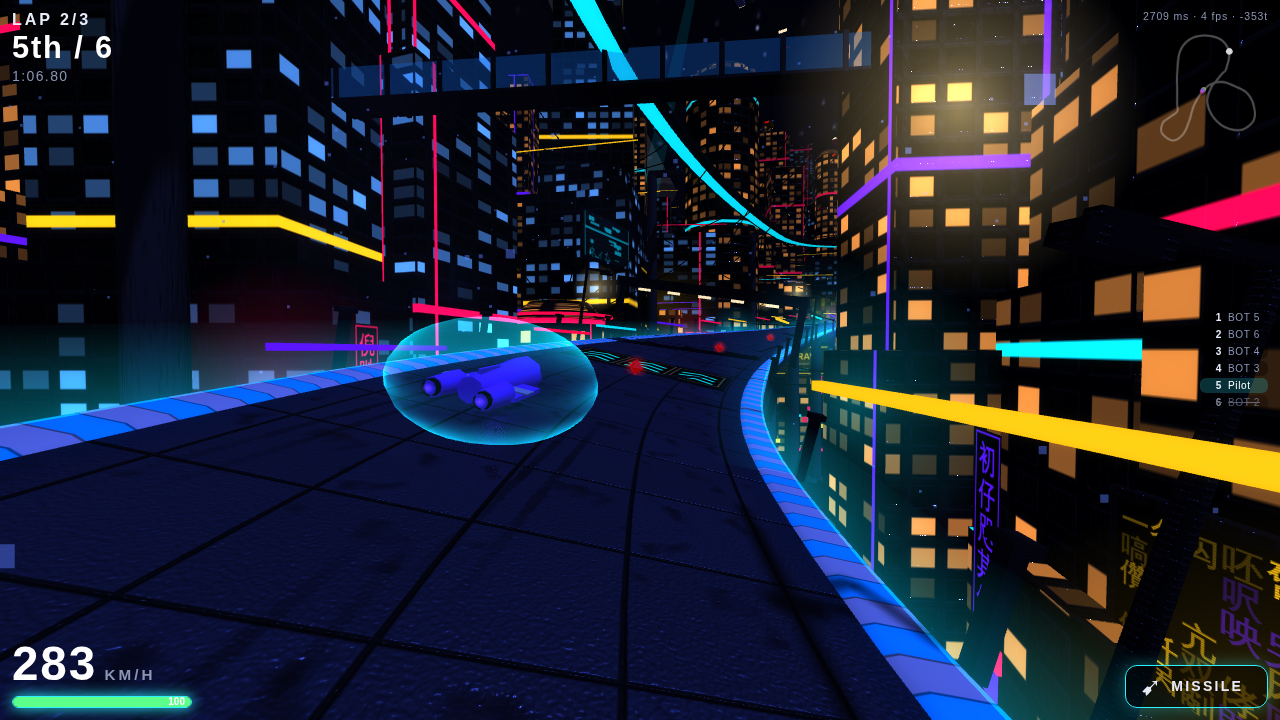
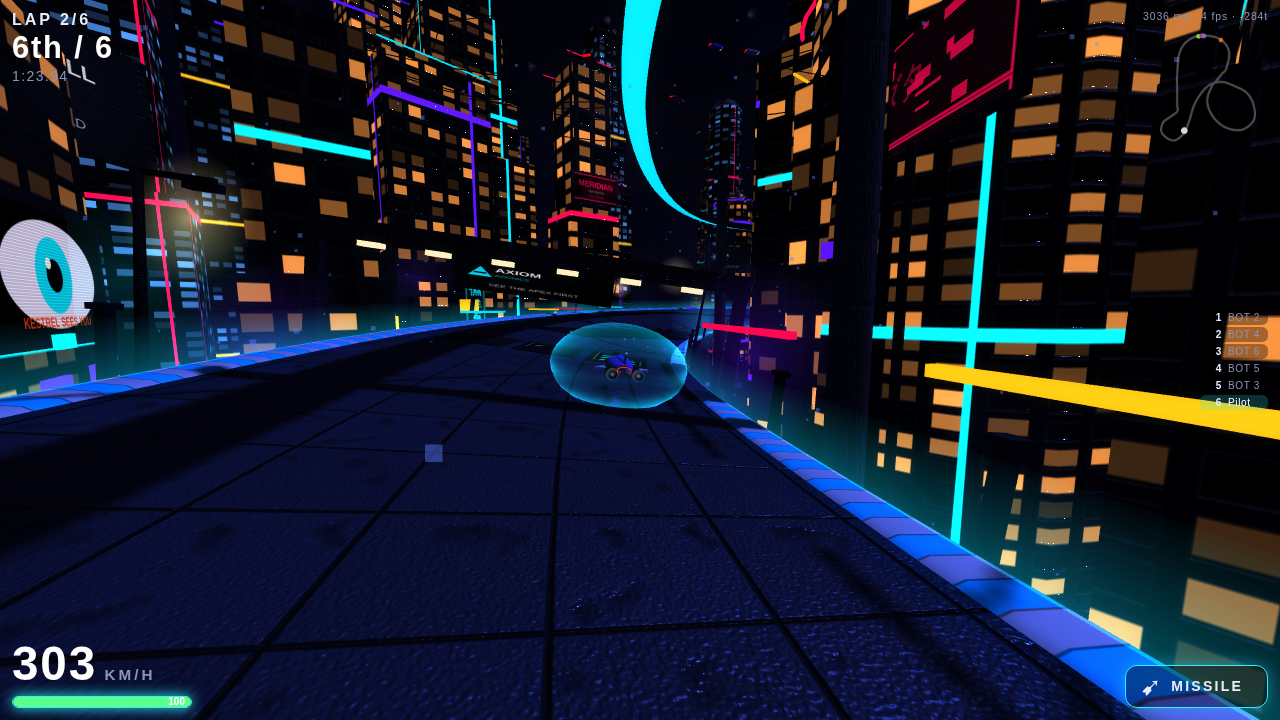
Sponsor adverts along every track, and shader exhaust plumes
The ten invented sponsors from the liveries now advertise trackside: a
banner under every light gantry on all three tracks, roadside billboards on
posts beyond the barriers in the canyon and on the coast, and sponsor spots
in rotation on the city's wall screens and holo boards. Each advert is a
generated canvas (mark, wordmark, tagline) shared through the texture cache.

Exhausts are shader plumes: an open tube behind each nozzle whose fragment
shader burns a white-hot core into the team colour, breaks the edge with
scrolling noise, thins toward the tip, thickens where the eye looks through
the middle and adds faint shock diamonds; throttle and boost set length and
heat. A small hot glow remains at the throat.

Claude-Session: https://claude.ai/code/session_011uQszjbA8SWdGi9ByjsS23

diff --git a/agrav/src/render/exhaust.js b/agrav/src/render/exhaust.js
@@ -1,0 +1,68 @@
+// ============================================================================
+// AGRAV — engine exhaust as a shader plume. An open tube behind each nozzle:
+// the fragment shader burns a white-hot core into the team colour, breaks the
+// edge up with scrolling noise, thins toward the tip and fades where the
+// surface turns away from the eye, so the plume reads as glowing gas rather
+// than a painted cone. Throttle and boost drive its length and heat.
+// ============================================================================
+
+import * as THREE from 'three';
+
+const VERT = `
+varying vec2 vUv; varying vec3 vN; varying vec3 vV;
+void main() {
+  vUv = uv;
+  vN = normalize(normalMatrix * normal);
+  vec4 mv = modelViewMatrix * vec4(position, 1.0);
+  vV = normalize(-mv.xyz);
+  gl_Position = projectionMatrix * mv;
+}`;
+const FRAG = `
+uniform float time; uniform vec3 colour; uniform float heat; uniform float seed;
+varying vec2 vUv; varying vec3 vN; varying vec3 vV;
+float hash(vec2 p) { return fract(sin(dot(p, vec2(127.1, 311.7))) * 43758.5453); }
+float vnoise(vec2 p) { vec2 i = floor(p), f = fract(p); f = f * f * (3.0 - 2.0 * f);
+  return mix(mix(hash(i), hash(i + vec2(1.0, 0.0)), f.x), mix(hash(i + vec2(0.0, 1.0)), hash(i + vec2(1.0, 1.0)), f.x), f.y); }
+float fbm(vec2 p) { float s = 0.0, a = 0.5; for (int i = 0; i < 4; i++) { s += a * vnoise(p); p = p * 2.03 + 17.1; a *= 0.5; } return s; }
+void main() {
+  float along = vUv.y;                                   // 0 at the nozzle, 1 at the tip
+  float around = vUv.x * 6.2832;
+  // turbulence scrolls away from the nozzle; wraps cleanly round the tube
+  vec2 q = vec2(cos(around) * 1.2 + seed, sin(around) * 1.2 + along * 3.0 - time * 7.0);
+  float n = fbm(q);
+  float body = smoothstep(1.0, 0.3, along + (n - 0.5) * 0.5);           // ragged, thinning tip
+  float core = smoothstep(0.85, 0.0, along) * (0.7 + 0.3 * n);
+  float shock = 0.5 + 0.5 * sin(along * 28.0 - time * 3.0);              // faint shock diamonds
+  // gas is densest where the eye looks through the middle of the tube, thin at the silhouette
+  float thick = abs(dot(normalize(vN), normalize(vV)));
+  float alpha = body * (0.3 + 0.7 * thick) * heat;
+  vec3 hot = vec3(1.0, 0.97, 0.9);
+  vec3 col = mix(colour * 1.8, hot, clamp(core * 1.1 + shock * 0.15 * (1.0 - along), 0.0, 1.0));
+  col *= 1.0 + heat * 0.8;
+  gl_FragColor = vec4(col * alpha * 3.0, alpha);
+}`;
+
+/** a plume for a nozzle of radius r, pointing +z from the origin; scale.z sets its length */
+export function makePlume(colour, r, seed = 0) {
+  // cylinder top (narrow) → +z tip, bottom (wide) → the nozzle at z = 0; uv.y then runs 0 → 1 nozzle → tip
+  const geo = new THREE.CylinderGeometry(r * 0.45, r * 1.25, 1, 18, 8, true);
+  geo.rotateX(Math.PI / 2);
+  geo.translate(0, 0, 0.5);
+  const mat = new THREE.ShaderMaterial({
+    vertexShader: VERT, fragmentShader: FRAG,
+    uniforms: { time: { value: 0 }, colour: { value: new THREE.Color(colour) }, heat: { value: 0.6 }, seed: { value: seed } },
+    transparent: true, depthWrite: false, blending: THREE.AdditiveBlending, side: THREE.DoubleSide
+  });
+  const m = new THREE.Mesh(geo, mat);
+  m.frustumCulled = false;
+  m.userData.noShadow = true;
+  return m;
+}
+
+/** drive a plume: throttle 0/1, boost, speed fraction, dead */
+export function animatePlume(plume, { throttle, boost, speedFrac, dead }, t) {
+  const len = dead ? 0.001 : throttle ? (boost ? 4.0 : 1.8 + speedFrac * 1.6) : 0.6;
+  plume.scale.set(1, 1, len);
+  plume.material.uniforms.time.value = t;
+  plume.material.uniforms.heat.value = dead ? 0 : throttle ? (boost ? 1.3 : 0.75 + speedFrac * 0.25) : 0.35;
+}

diff --git a/agrav/src/render/vehicle.js b/agrav/src/render/vehicle.js
@@ -15,6 +15,7 @@ import { loft, displaceAlongNormal } from './props.js';
 import { metalPlateSet, standard } from './surfaces.js';
 import { liverySet, ATLAS } from './livery.js';
 import { fbm3 } from './noise.js';
+import { makePlume, animatePlume } from './exhaust.js';
 
 const protos = new Map();
 const L = BASE.length, W = BASE.width;
@@ -146,15 +147,14 @@ export function buildCraft(vehicleId) {
   const parts = proto.userData.parts;
   const glow = glowSprite();
   const exhaust = [], flames = [];
-  const flameMat = new THREE.MeshBasicMaterial({ color: 0xffb060, transparent: true, opacity: 0.55, blending: THREE.AdditiveBlending, depthWrite: false, side: THREE.DoubleSide });
-  for (const n of parts.nozzles) {
-    const sp = new THREE.Sprite(new THREE.SpriteMaterial({ map: glow, color: def.colour, transparent: true, blending: THREE.AdditiveBlending, depthWrite: false }));
-    sp.position.set(n.x, n.y, n.z + 0.2); sp.scale.set(n.r * 5, n.r * 5, 1);
+  parts.nozzles.forEach((n, i) => {
+    // a small hot glow at the throat, and the shader plume behind it
+    const sp = new THREE.Sprite(new THREE.SpriteMaterial({ map: glow, color: 0xfff0d0, transparent: true, blending: THREE.AdditiveBlending, depthWrite: false }));
+    sp.position.set(n.x, n.y, n.z + 0.1); sp.scale.set(n.r * 3, n.r * 3, 1);
     group.add(sp); exhaust.push(sp);
-    const cone = new THREE.Mesh(new THREE.ConeGeometry(n.r * 0.85, 1.4, 12, 1, true), flameMat);
-    cone.geometry.rotateX(-Math.PI / 2); cone.geometry.translate(0, 0, 0.7);
-    cone.position.set(n.x, n.y, n.z); group.add(cone); flames.push(cone);
-  }
+    const plume = makePlume(def.colour, n.r, i * 3.7 + def.id.length);
+    plume.position.set(n.x, n.y, n.z + 0.05); group.add(plume); flames.push(plume);
+  });
   // airbrake panels hinge up from the wing / outrigger trailing edges
   const flapMat = new THREE.MeshStandardMaterial({ color: def.accent, roughness: 0.5, metalness: 0.4 });
   const fp = parts.flaps;
@@ -172,8 +172,9 @@ export function buildCraft(vehicleId) {
 /** per-frame animation of a craft's dressing */
 export function animateCraft(craft, { throttle, abL, abR, boost, speedFrac, dead }) {
   const e = throttle ? (boost ? 2.4 : 1.4 + speedFrac * 0.6) : 0.5;
-  for (const sp of craft.exhaust) { sp.scale.set(sp.userData.s ?? (sp.userData.s = sp.scale.x), sp.userData.s * 0.8, 1); sp.scale.multiplyScalar(e / 1.4); sp.material.opacity = dead ? 0 : 0.9; }
-  for (const f of craft.flames || []) { const k = throttle ? (boost ? 1.8 : 0.6 + speedFrac * 0.6) : 0.15; f.scale.set(1, 1, k * (0.9 + Math.random() * 0.2)); f.material.opacity = dead ? 0 : (boost ? 0.8 : 0.5); }
+  const t = performance.now() * 0.001;
+  for (const sp of craft.exhaust) { sp.scale.set(sp.userData.s ?? (sp.userData.s = sp.scale.x), sp.userData.s, 1); sp.scale.multiplyScalar(e / 1.4); sp.material.opacity = dead ? 0 : 0.7; }
+  for (const f of craft.flames || []) animatePlume(f, { throttle, boost, speedFrac, dead }, t);
   craft.flapL.rotation.x = THREE.MathUtils.lerp(craft.flapL.rotation.x, abL ? -0.9 : 0, 0.3);
   craft.flapR.rotation.x = THREE.MathUtils.lerp(craft.flapR.rotation.x, abR ? -0.9 : 0, 0.3);
   craft.light.intensity = dead ? 0 : (boost ? 3 : 1.2);

diff --git a/agrav/src/render/env/city.js b/agrav/src/render/env/city.js
@@ -6,7 +6,7 @@
 // Everything that moves stays above the road or beyond the barriers.
 import * as THREE from 'three';
 import { setupSky, placeAlong, instanced, ground, merged, placed, particleField, fogCards } from './common.js';
-import { glowSprite, holoTexture, adTexture, neonSignTexture } from '../textures.js';
+import { glowSprite, holoTexture, adTexture, neonSignTexture, sponsorAdTexture, SPONSOR_IDS } from '../textures.js';
 import { asphaltSet, facadeSet, concreteSet, metalPlateSet, standard } from '../surfaces.js';
 import { tower, towerDressing, pylonGeo, lampPostGeo, sweep, frameRuns } from '../props.js';
 import { frameQuat } from '../track.js';
@@ -135,14 +135,15 @@ export function buildCity(scene, ribbon, track) {
   const screenMats = [];
   const screenFrames = [];
   screens.forEach((sc, i) => {
-    const t0 = adTexture(sc.seed, sc.colour).clone(), t1 = adTexture(sc.seed + 31, sc.colour, (sc.seed + 2) % 6).clone();
+    // every screen alternates a generic advert with a sponsor spot
+    const t0 = adTexture(sc.seed, sc.colour).clone(), t1 = sponsorAdTexture(SPONSOR_IDS[(sc.seed * 5 + i) % SPONSOR_IDS.length], i % 2).clone();
     t0.needsUpdate = t1.needsUpdate = true;
     const m = new THREE.MeshBasicMaterial({ map: t0, toneMapped: false });
     const mesh = new THREE.Mesh(new THREE.PlaneGeometry(sc.w, sc.h), m);
     mesh.position.set(sc.x, sc.y, sc.z);
     mesh.quaternion.setFromUnitVectors(new THREE.Vector3(0, 0, 1), new THREE.Vector3(sc.n.x, 0, sc.n.z).normalize());
     group.add(mesh);
-    screenMats.push({ m, t0, t1, ticker: sc.seed % 6 === 4 || (sc.seed + 2) % 6 === 4, period: 3 + (i % 4), phase: i * 0.7 });
+    screenMats.push({ m, t0, t1, ticker: sc.seed % 6 === 4, period: 3 + (i % 4), phase: i * 0.7 });
     const fr = new THREE.BoxGeometry(sc.w + 1.2, sc.h + 1.2, 0.8); fr.translate(0, 0, -0.45);
     fr.applyMatrix4(new THREE.Matrix4().compose(mesh.position, mesh.quaternion, new THREE.Vector3(1, 1, 1)));
     screenFrames.push(fr);
@@ -289,9 +290,9 @@ export function buildCity(scene, ribbon, track) {
   const frameGeo = [];
   bbItems.forEach((it, i) => {
     const c = env.neon[i % env.neon.length];
-    const t = holoTexture(50 + (i % 5), c).clone(); t.needsUpdate = true;
+    const t = (i % 2 ? sponsorAdTexture(SPONSOR_IDS[i % SPONSOR_IDS.length], 1) : holoTexture(50 + (i % 5), c)).clone(); t.needsUpdate = true;
     const m = new THREE.MeshBasicMaterial({ map: t, color: 0xffffff, transparent: true, opacity: 0.85, side: THREE.DoubleSide, blending: THREE.AdditiveBlending, depthWrite: false });
-    holoMats.push({ m, speed: 0.05 + (i % 3) * 0.04 });
+    holoMats.push({ m, speed: i % 2 ? 0 : 0.05 + (i % 3) * 0.04 });   // sponsor spots hold still, glyph boards scroll
     const mesh = new THREE.Mesh(bb, m);
     mesh.position.set(it.p.x, it.p.y, it.p.z);
     mesh.quaternion.setFromUnitVectors(new THREE.Vector3(0, 0, 1), new THREE.Vector3(-it.f.right.x * it.sd, 0, -it.f.right.z * it.sd).normalize());

diff --git a/agrav/src/render/env/common.js b/agrav/src/render/env/common.js
@@ -7,7 +7,7 @@
 import * as THREE from 'three';
 import { frameAt } from '../../../../shared/sim/spline.js';
 import { makeRng } from '../../../../shared/sim/rng.js';
-import { skyDomeTexture, glowSprite } from '../textures.js';
+import { skyDomeTexture, glowSprite, sponsorAdTexture, SPONSOR_IDS } from '../textures.js';
 import { mergeGeometries } from '../../../../shared/gfx/merge.js';
 
 /**
@@ -200,4 +200,35 @@ export function fogCards(items, { colour = 0x8090c0, opacity = 0.07, scale = [60
     sp.position.set(it.x, it.y, it.z); sp.scale.set(scale[0], scale[1], 1); g.add(sp);
   }
   return g;
+}
+
+/**
+ * Roadside billboards: a sponsor advert on a post beyond the barrier every
+ * `every` metres, alternating sides, turned to face oncoming racers. `y(x, z)`
+ * gives the ground height under the post. Returns { ads: Group, frames: [geo] }
+ * so the theme merges the posts into its own metal.
+ */
+export function billboards(ribbon, { every = 210, seed = 4, gap = 6, w = 14, h = 7, lift = 5, y = null } = {}) {
+  const rng = makeRng(seed);
+  const ads = new THREE.Group(), frames = [];
+  let sd = 1, i = 0;
+  for (let s = every * 0.5; s < ribbon.length - 40; s += every, i++) {
+    const f = frameAt(ribbon, s + rng() * 40), t = sd * (f.width / 2 + gap + w * 0.5);
+    const px = f.pos.x + f.right.x * t, pz = f.pos.z + f.right.z * t;
+    const base = y ? y(px, pz) : f.pos.y - 1;
+    const id = SPONSOR_IDS[(i * 7 + seed) % SPONSOR_IDS.length];
+    const m = new THREE.Mesh(new THREE.PlaneGeometry(w, h), new THREE.MeshBasicMaterial({ map: sponsorAdTexture(id, i % 2), side: THREE.DoubleSide, toneMapped: false }));
+    m.position.set(px, Math.max(base, f.pos.y - 2) + lift + h / 2, pz);
+    // face back down the track, angled slightly toward the road
+    const back = new THREE.Vector3(f.tangent.x, 0, f.tangent.z).normalize().multiplyScalar(-1);
+    const toRoad = new THREE.Vector3(-f.right.x * sd, 0, -f.right.z * sd);
+    m.quaternion.setFromUnitVectors(new THREE.Vector3(0, 0, 1), back.multiplyScalar(0.8).add(toRoad.multiplyScalar(0.6)).normalize());
+    m.userData.noShadow = true;
+    ads.add(m);
+    const fr = new THREE.BoxGeometry(w + 0.8, h + 0.8, 0.5); fr.translate(0, 0, -0.35); fr.applyMatrix4(new THREE.Matrix4().compose(m.position, m.quaternion, new THREE.Vector3(1, 1, 1))); frames.push(fr);
+    const postH = m.position.y - h / 2 - base;
+    for (const dx of [-w * 0.3, w * 0.3]) { const post = new THREE.CylinderGeometry(0.22, 0.28, postH, 8); post.translate(dx, postH / 2, -0.4); post.applyMatrix4(new THREE.Matrix4().compose(new THREE.Vector3(px, base, pz), m.quaternion, new THREE.Vector3(1, 1, 1))); frames.push(post); }
+    sd = -sd;
+  }
+  return { ads, frames };
 }

diff --git a/agrav/src/render/textures.js b/agrav/src/render/textures.js
@@ -5,6 +5,7 @@
 import * as THREE from 'three';
 import { makeRng } from '../../../shared/sim/rng.js';
 import { fbm2, smoothstep } from './noise.js';
+import { SPONSORS } from './livery.js';
 
 function canvas(w, h) { const c = document.createElement('canvas'); c.width = w; c.height = h; return c; }
 function tex(c, { repeat = [1, 1], srgb = true, aniso = 4 } = {}) {
@@ -301,6 +302,29 @@ export function adTexture(seed, colour, style = seed % 6) {
     const t = tex(c); t.wrapS = THREE.RepeatWrapping; t.wrapT = THREE.ClampToEdgeWrapping; return t;
   });
 }
+
+const TAGLINES = {
+  umbrella: ['OUR BUSINESS IS LIFE ITSELF', 'PRESERVING THE FUTURE'], zenith: ['BURN BRIGHTER', 'RACE-GRADE. STREET-LEGAL.'], neokyo: ['MOTION, PERFECTED'],
+  axiom: ['SEE THE APEX FIRST'], pulse: ['DRINK THE FUTURE', 'ZERO LATENCY'], vanta: ['NOTHING ESCAPES'], orbital: ['ANYWHERE. BY MORNING.'],
+  hypercell: ['CHARGE AHEAD'], synth: ['HEAR THE SPEED'], nova: ['STAY COOL AT 300']
+};
+/** a sponsor's display advert, 512 × 256: mark and wordmark on a brand field with a tagline */
+export function sponsorAdTexture(id, variant = 0) {
+  return memo(`spad${id}${variant}`, () => {
+    const W = 512, H = 256;
+    const c = canvas(W, H), g = c.getContext('2d'), sp = SPONSORS[id], rng = makeRng(id.length * 31 + variant);
+    const tags = TAGLINES[id] || ['']; const tag = tags[variant % tags.length];
+    if (variant % 2 === 0) { g.fillStyle = '#0a0c14'; g.fillRect(0, 0, W, H); }
+    else { const grad = g.createLinearGradient(0, 0, W, H); grad.addColorStop(0, '#1a1e2c'); grad.addColorStop(1, '#0a0c14'); g.fillStyle = grad; g.fillRect(0, 0, W, H); }
+    if (id === 'umbrella') { g.fillStyle = '#d0141b'; g.fillRect(0, 0, W, 14); g.fillRect(0, H - 14, W, 14); }
+    g.save(); g.translate(W / 2, H * 0.4); sp.logo(g, W * 0.86, H * 0.42); g.restore();
+    g.fillStyle = '#e8e8f0'; g.font = `${H * 0.11}px sans-serif`; g.textAlign = 'center'; g.textBaseline = 'middle'; g.fillText(tag, W / 2, H * 0.8);
+    g.fillStyle = 'rgba(0,0,0,0.15)'; for (let y = 0; y < H; y += 3) g.fillRect(0, y, W, 1);
+    void rng;
+    const t = tex(c); t.wrapS = t.wrapT = THREE.ClampToEdgeWrapping; return t;
+  });
+}
+export const SPONSOR_IDS = Object.keys(SPONSORS);
 
 /** a tall vertical neon sign: a column of glyphs in one colour, 64 × 384 */
 export function neonSignTexture(seed, colour) {

diff --git a/agrav/src/render/track.js b/agrav/src/render/track.js
@@ -8,7 +8,7 @@
 import * as THREE from 'three';
 import { frameAt, toWorld } from '../../../shared/sim/spline.js';
 import { HOVER_HEIGHT } from '../../../shared/agrav/constants.js';
-import { padTexture, checkerTexture, curbTexture, skidTexture } from './textures.js';
+import { padTexture, checkerTexture, curbTexture, skidTexture, sponsorAdTexture, SPONSOR_IDS } from './textures.js';
 import { asphaltSet, concreteSet, metalPlateSet, standard } from './surfaces.js';
 import { sweep, barrierPostGeo, gantryGeo } from './props.js';
 import { instanced } from './env/common.js';
@@ -117,6 +117,16 @@ export function buildTrack(ribbon, track, env) {
     const m = new THREE.Matrix4().compose(new THREE.Vector3(f.pos.x, f.pos.y, f.pos.z), frameQuat(f), new THREE.Vector3(1, 1, 1));
     g.frame.applyMatrix4(m); g.lamps.applyMatrix4(m);
     frames.push(g.frame); lamps.push(g.lamps);
+  }
+  // a sponsor banner hangs from every gantry, facing oncoming racers
+  let gi = 0;
+  for (let s = 140; s < ribbon.length - 60; s += 160, gi++) {
+    const f = frameAt(ribbon, s), id = SPONSOR_IDS[(gi * 3 + track.id.length) % SPONSOR_IDS.length];
+    const banner = new THREE.Mesh(new THREE.PlaneGeometry(Math.min(12, f.width * 0.5), 2.4), new THREE.MeshBasicMaterial({ map: sponsorAdTexture(id, gi % 2), side: THREE.DoubleSide, toneMapped: false }));
+    banner.position.set(f.pos.x + f.up.x * 6.4, f.pos.y + f.up.y * 6.4, f.pos.z + f.up.z * 6.4);
+    banner.quaternion.copy(frameQuat(f));
+    banner.userData.noShadow = true;
+    group.add(banner);
   }
   if (frames.length) {
     const gm = new THREE.Mesh(mergeGeometries(frames), metal); gm.frustumCulled = false; gm.name = 'gantry'; group.add(gm);

diff --git a/agrav/src/render/env/coast.js b/agrav/src/render/env/coast.js
@@ -3,9 +3,9 @@
 // shader with foam and sun glitter, sea stacks, a displaced rock tunnel
 // through the headland, a lighthouse with a sweeping beam, grass and spray.
 import * as THREE from 'three';
-import { setupSky, placeAlong, instancedVariants, merged, placed, particleField, flock } from './common.js';
+import { setupSky, placeAlong, instancedVariants, merged, placed, particleField, flock, billboards } from './common.js';
 import { glowSprite } from '../textures.js';
-import { cliffSet, sandSet, waterSet, standard, triplanarBlended } from '../surfaces.js';
+import { cliffSet, sandSet, metalPlateSet, waterSet, standard, triplanarBlended } from '../surfaces.js';
 import { rock, cliffSlab, seaStack, grassGeo, sweep, frameRuns } from '../props.js';
 import { buildTerrain, corridor } from '../terrain.js';
 import { fbm2, fbm3, ridged2, smoothstep } from '../noise.js';
@@ -182,6 +182,9 @@ gl_Position = projectionMatrix * mvPosition;`);
   const spray = particleField(160, { seed: 46, box: [240, 6, 240], colour: 0xffffff, size: 1.6, opacity: 0.1, drift: [2, 0, 0.5], map: glowSprite(), fixedY: SEA_LEVEL + 0.5 });
   fine.add(spray);
 
+  // sponsor billboards on posts beside the road
+  const bb = billboards(ribbon, { every: 200, seed: 9, y: heightAt });
+  group.add(bb.ads, merged(bb.frames, standard(metalPlateSet(0x4a505c), { bumpScale: 0.05, metalness: 0.6, roughness: 0.5 })));
   // gulls over the cove and round the lighthouse
   const gulls = flock(12, { x: lhx + 40, z: lhz + 30 }, 70, lhy + 50, { seed: 12, colour: 0xf4f4f8, size: 1.3, speed: 0.3 });
   const gulls2 = flock(10, { x: -470, z: 110 }, 60, 30, { seed: 13, colour: 0xf4f4f8, size: 1.2, speed: 0.4 });

diff --git a/agrav/src/render/env/canyon.js b/agrav/src/render/env/canyon.js
@@ -3,9 +3,9 @@
 // strata on every rock, eroded mesas on the horizon, boulders, scrub, a
 // hazy sun and drifting dust.
 import * as THREE from 'three';
-import { setupSky, placeAlong, instancedVariants, merged, placed, particleField, flock } from './common.js';
+import { setupSky, placeAlong, instancedVariants, merged, placed, particleField, flock, billboards } from './common.js';
 import { glowSprite } from '../textures.js';
-import { strataSet, sandSet, cliffSet, concreteSet, waterSet, standard, triplanarBlended } from '../surfaces.js';
+import { strataSet, sandSet, cliffSet, concreteSet, metalPlateSet, waterSet, standard, triplanarBlended } from '../surfaces.js';
 import { rock, mesa, cliffSlab, cactusGeo, deadTreeGeo, pylonGeo, archGeo } from '../props.js';
 import { buildTerrain, corridor } from '../terrain.js';
 import { fbm2, ridged2, smoothstep } from '../noise.js';
@@ -118,6 +118,9 @@ export function buildCanyon(scene, ribbon, track) {
     if (h > 5) pylons.push(placed(pylonGeo(h + 2, 1.6), f.pos.x, g - 2, f.pos.z));
   }
   if (pylons.length) group.add(merged(pylons, concrete));
+  // sponsor billboards on posts beside the road
+  const bb = billboards(ribbon, { every: 190, seed: 5, y: heightAt });
+  group.add(bb.ads, merged(bb.frames, standard(metalPlateSet(0x4a505c), { bumpScale: 0.05, metalness: 0.6, roughness: 0.5 })));
   // dust motes and heat haze
   const dust = particleField(500, { seed: 41, box: [180, 40, 180], colour: 0xffd9a0, size: 0.6, opacity: 0.22, drift: [3, 0, 1], map: glowSprite() });
   fine.add(dust);

diff --git a/agrav/README.md b/agrav/README.md
@@ -42,7 +42,12 @@ the livery paints. Each ship wears a painted 1024² atlas (`src/render/livery.js
 normal, bump, roughness and emissive maps: team paint and pattern, a race number, panel lines and
 rivets, the team wordmark and four sponsor decals. Sponsors are invented: Umbrella Corporation,
 Zenith Fuel, Neo-Kyo Dynamics, Axiom Avionics, Pulse, Vanta Optics, Orbital Logistics, Hypercell,
-Synth Audio, Nova Coolant.
+Synth Audio, Nova Coolant. Exhausts are shader plumes (`src/render/exhaust.js`): an open tube
+behind each nozzle whose fragment shader burns a white-hot core into the team colour, breaks the
+edge with scrolling noise, thins toward the tip and thickens where the eye looks through the
+middle; throttle and boost set its length and heat. The same sponsors advertise along every track: a banner under each
+light gantry, roadside billboards on posts beyond the barriers in the canyon and on the coast, and
+sponsor spots in rotation on the city's wall screens and holo boards.
 
 | Craft | Shape | Livery |
 |---|---|---|
